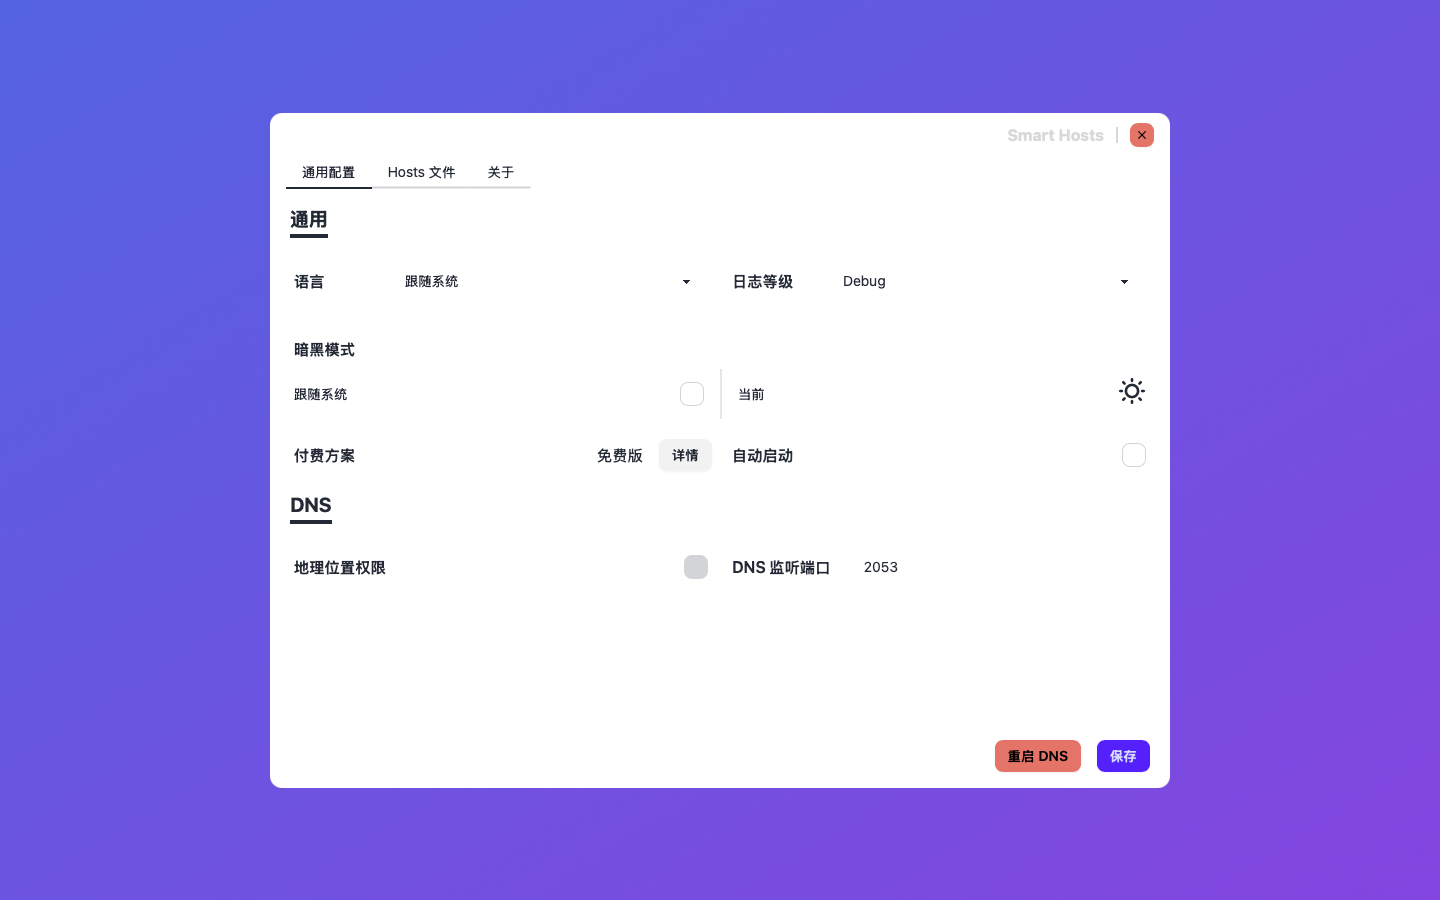
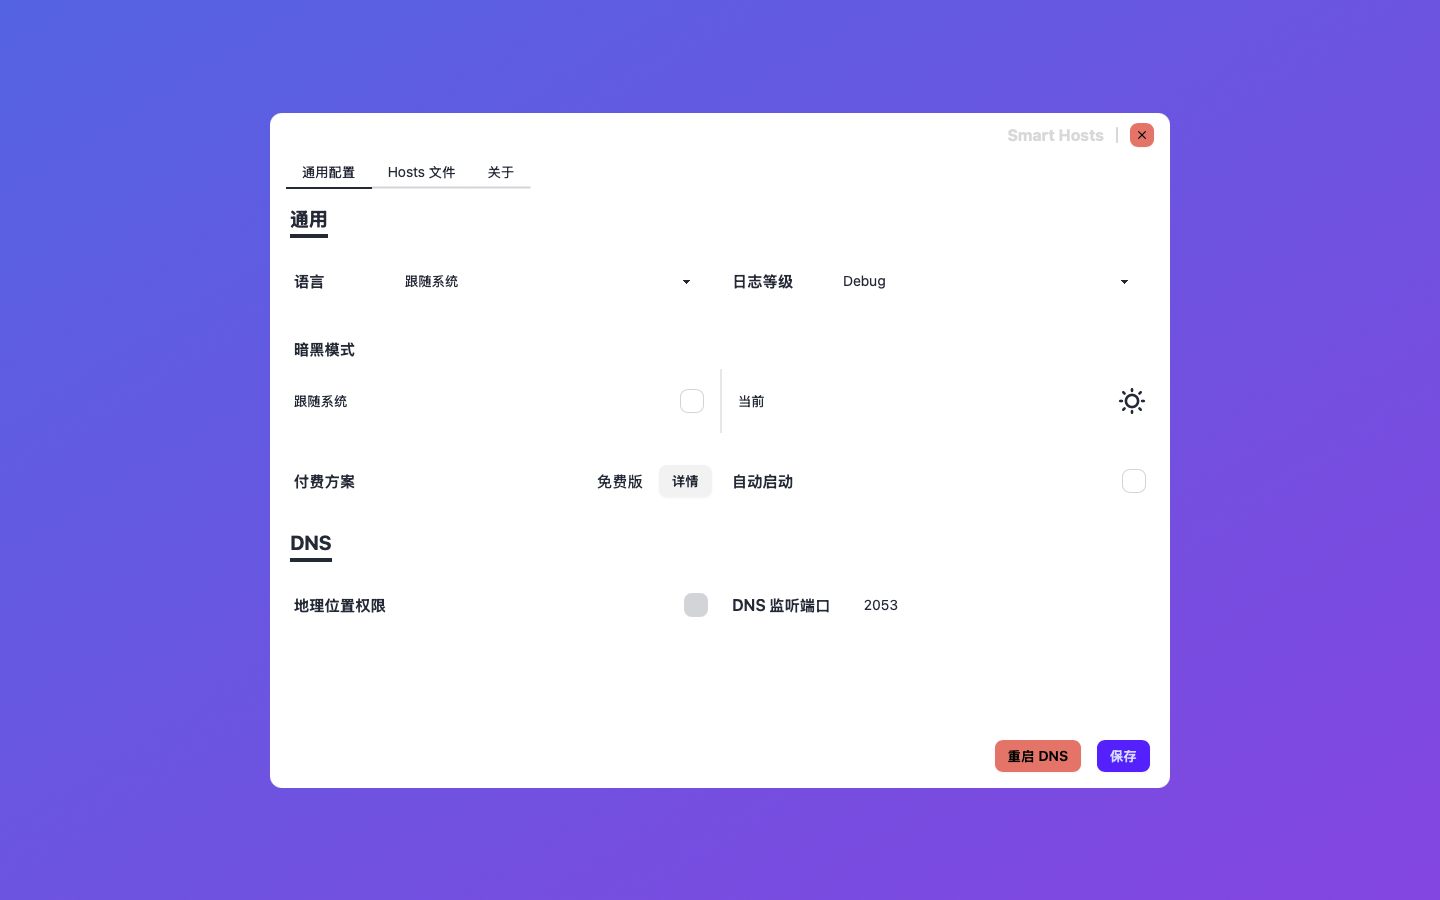
Update README.md

diff --git a/profile/README.md b/profile/README.md
@@ -65,9 +65,11 @@ Serve your smart hosts file as a DNS server.
 
 ## Changelogs
 
-### v0.5.0 (Work in Progress, Available on TestFlight)
+### v0.5.0 (Available on TestFlight)
 
-- Hosts file code editor with syntax highlighting powered by `tree-sitter`.
+- **New Feature**: Hosts file code editor with syntax highlighting powered by `tree-sitter`.
+- **Preferences UI**: Fix component flinking issue while loading resource.
+- **Third-Party Dependencies**: Upgraded several libraries
 
 ### v0.4.0 (2025-01-03)
 

diff --git a/profile/README.zh.md b/profile/README.zh.md
@@ -63,6 +63,8 @@
 ### v0.5.0 (Work in progress, Be available in TestFlight)
 
 - Hosts 文件代码编辑器，通过 tree-sitter 支持代码高亮。
+- 修复组件加载数据时闪烁的问题.
+- 更新多个第三方依赖
 
 ### v0.4.0 (2025-01-03)
 
